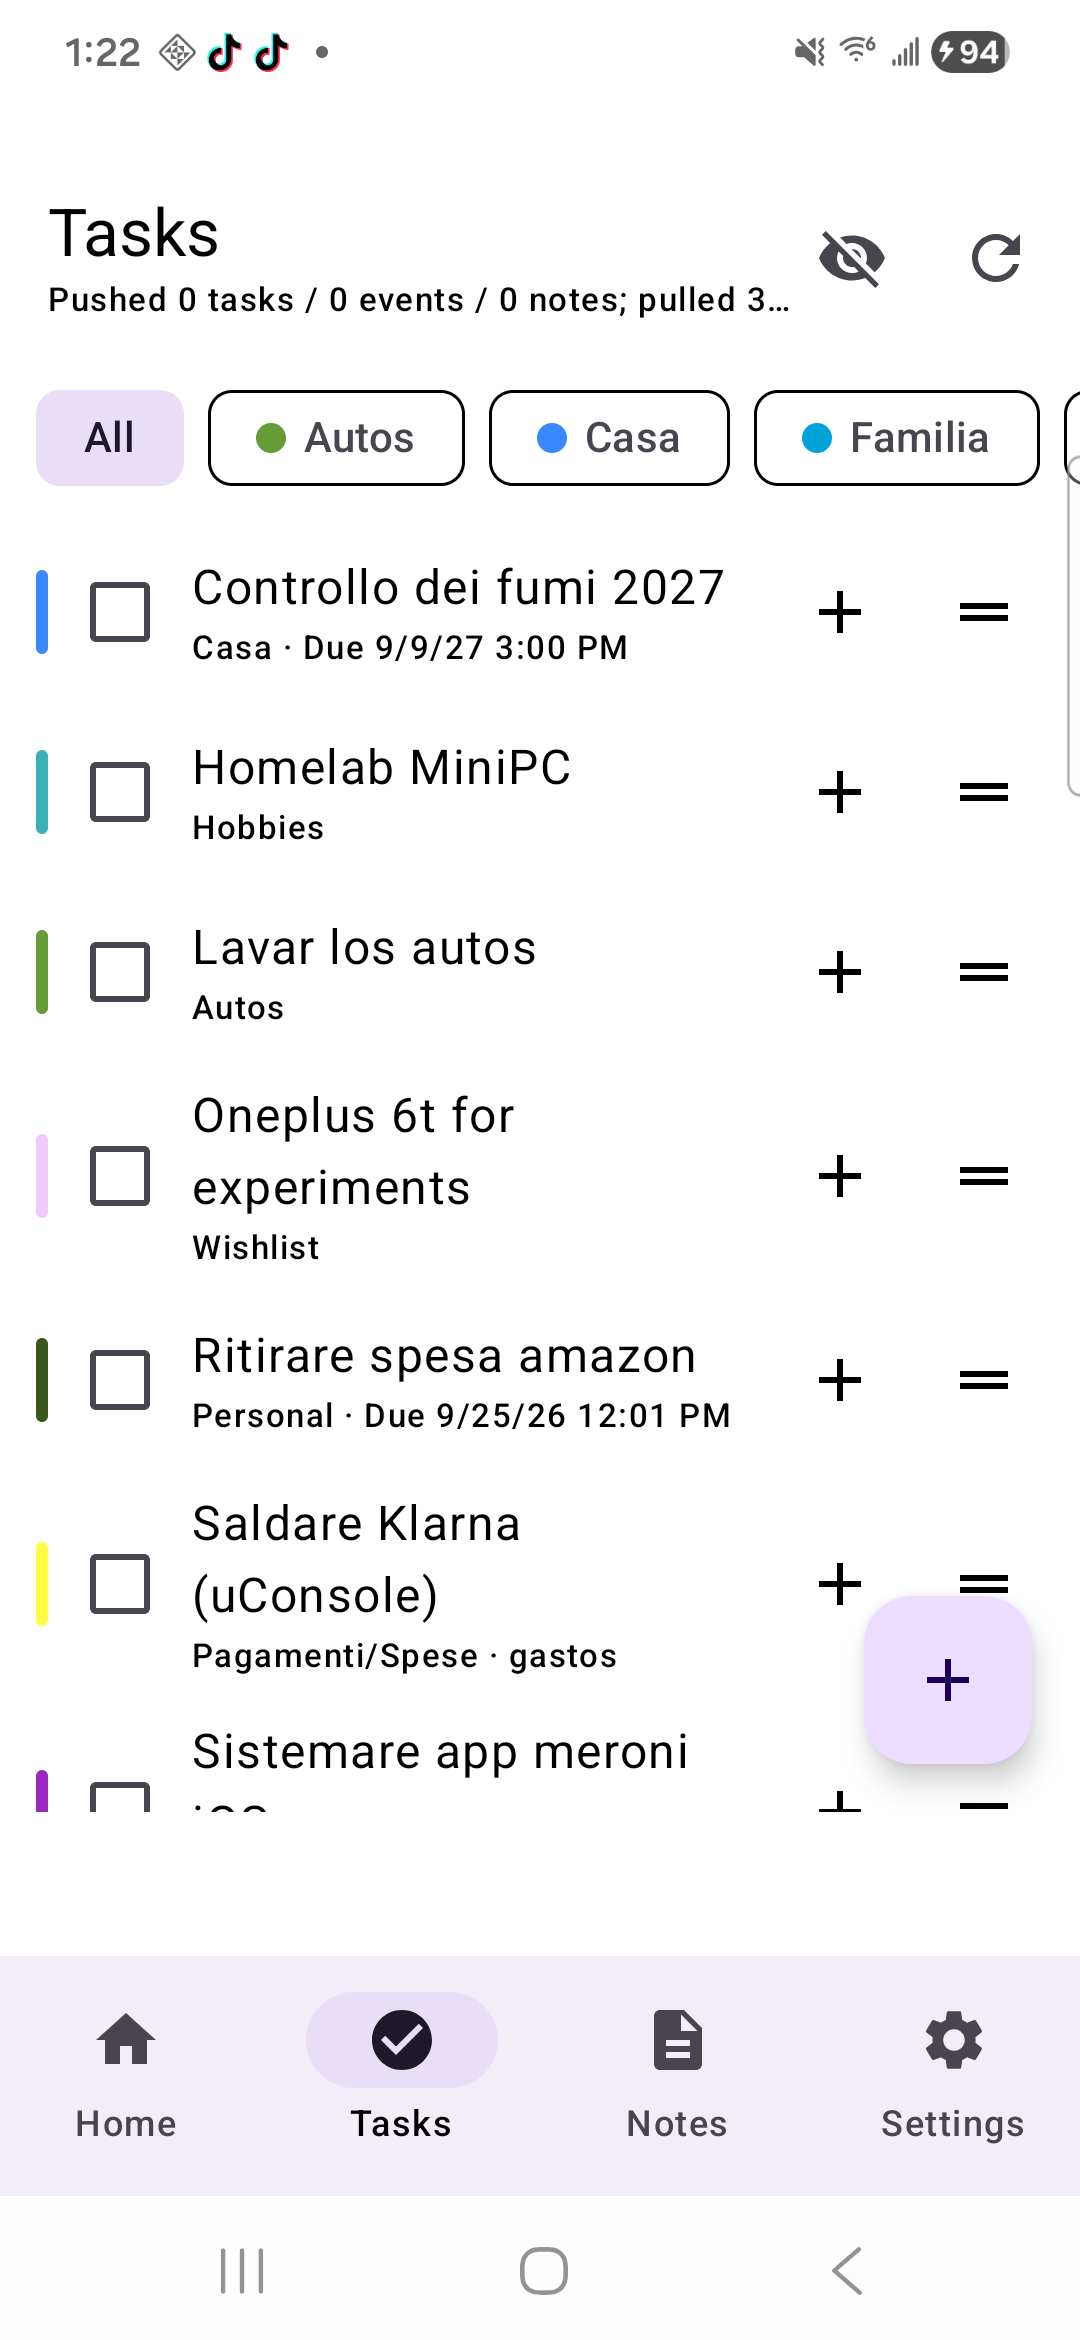
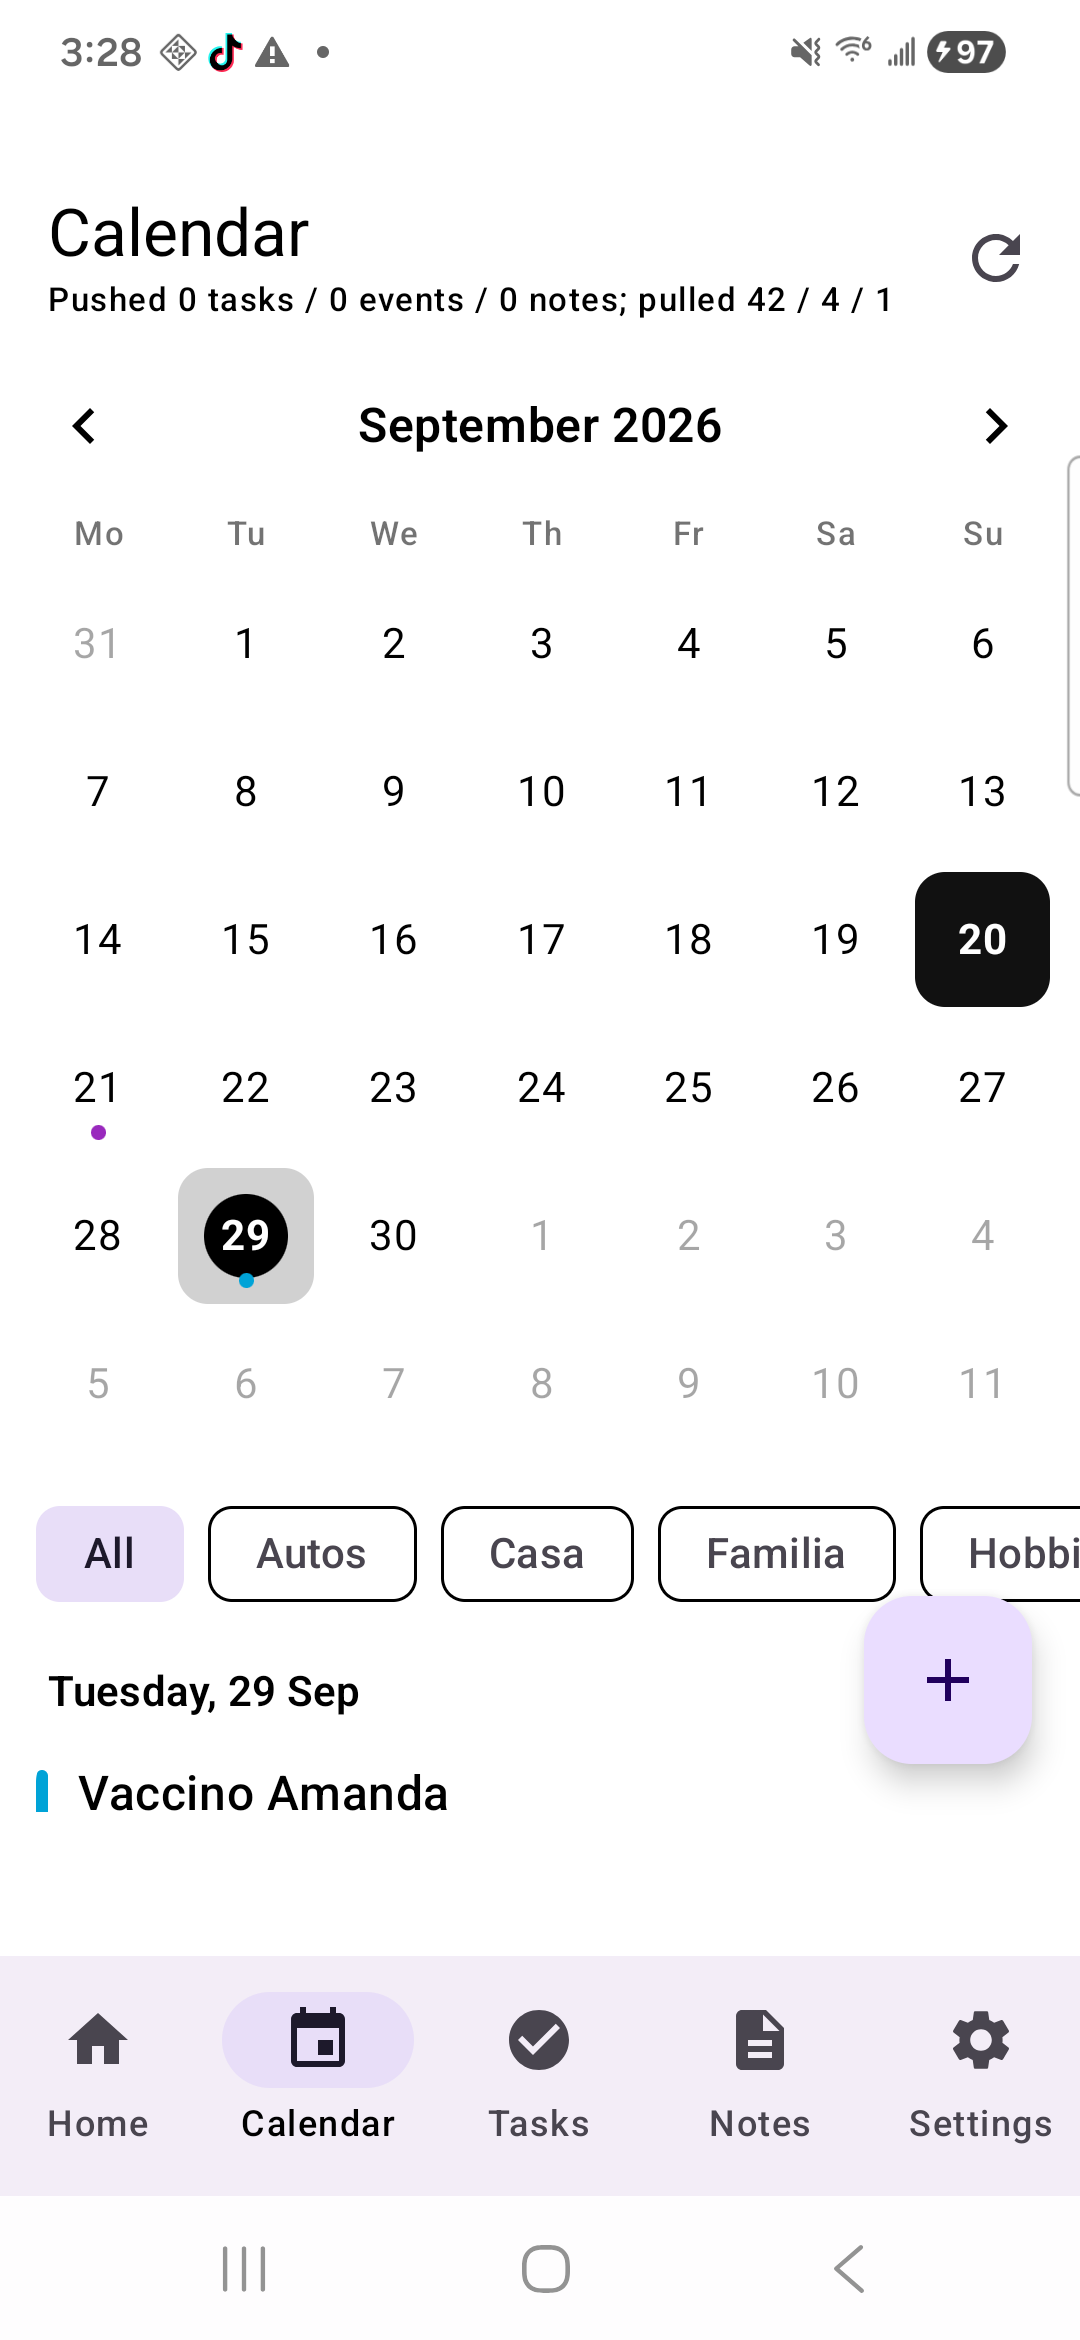
Fix calendar layout

diff --git a/app/src/main/java/app/taskdav/ui/calendar/CalendarScreen.kt b/app/src/main/java/app/taskdav/ui/calendar/CalendarScreen.kt
@@ -69,8 +69,7 @@ import app.taskdav.ui.theme.collectionColorOrDefault
 import java.util.Calendar
 import java.util.Locale
 
-private val TodayDotRed = Color(0xFFE53935)
-private val EventDot = Color(0xFF1B6CA8)
+private val TodayCellBlack = Color(0xFF111111)
 
 @OptIn(ExperimentalMaterial3Api::class)
 @Composable
@@ -364,33 +363,32 @@ private fun MonthDayCellView(
     modifier: Modifier = Modifier,
 ) {
     val muted = !cell.inCurrentMonth
-    Column(
+    Box(
         modifier = modifier
             .aspectRatio(1f)
             .padding(2.dp)
             .clip(RoundedCornerShape(10.dp))
             .then(
-                if (selected) {
-                    Modifier.background(MaterialTheme.colorScheme.primary.copy(alpha = 0.18f))
-                } else {
-                    Modifier
+                when {
+                    isToday -> Modifier.background(TodayCellBlack)
+                    selected -> Modifier.background(MaterialTheme.colorScheme.primary.copy(alpha = 0.18f))
+                    else -> Modifier
                 },
             )
-            .clickable(onClick = onClick)
-            .padding(vertical = 4.dp),
-        horizontalAlignment = Alignment.CenterHorizontally,
-        verticalArrangement = Arrangement.SpaceBetween,
+            .clickable(onClick = onClick),
     ) {
+        // Day number is always dead-center in the cell (same for every day).
         Box(
             modifier = Modifier
+                .align(Alignment.Center)
                 .size(28.dp)
                 .then(
-                    if (selected) {
-                        Modifier
+                    when {
+                        isToday -> Modifier
+                        selected -> Modifier
                             .clip(CircleShape)
                             .background(MaterialTheme.colorScheme.primary)
-                    } else {
-                        Modifier
+                        else -> Modifier
                     },
                 ),
             contentAlignment = Alignment.Center,
@@ -399,35 +397,37 @@ private fun MonthDayCellView(
                 cell.dayOfMonth.toString(),
                 style = MaterialTheme.typography.bodyMedium,
                 fontWeight = if (isToday || selected) FontWeight.Bold else FontWeight.Normal,
+                textAlign = TextAlign.Center,
                 color = when {
+                    isToday -> Color.White
                     selected -> MaterialTheme.colorScheme.onPrimary
                     muted -> MaterialTheme.colorScheme.onSurface.copy(alpha = 0.35f)
                     else -> MaterialTheme.colorScheme.onSurface
                 },
             )
         }
-        Row(
-            horizontalArrangement = Arrangement.spacedBy(3.dp),
-            verticalAlignment = Alignment.CenterVertically,
-            modifier = Modifier.height(10.dp),
+        // Fixed bottom lane so dots are centered under the number without shifting it.
+        Box(
+            modifier = Modifier
+                .align(Alignment.BottomCenter)
+                .fillMaxWidth()
+                .height(10.dp)
+                .padding(bottom = 2.dp),
+            contentAlignment = Alignment.Center,
         ) {
-            if (isToday) {
-                Box(
-                    modifier = Modifier
-                        .size(6.dp)
-                        .clip(CircleShape)
-                        .background(TodayDotRed),
-                )
-            }
-            if (cell.eventCount > 0) {
-                val dots = cell.eventCount.coerceAtMost(3)
-                repeat(dots) {
+            Row(horizontalArrangement = Arrangement.spacedBy(3.dp)) {
+                cell.eventColorsArgb.forEach { argb ->
+                    val color = collectionColorOrDefault(argb)
                     Box(
                         modifier = Modifier
                             .size(5.dp)
                             .clip(CircleShape)
                             .background(
-                                if (muted) EventDot.copy(alpha = 0.35f) else EventDot,
+                                when {
+                                    isToday -> color
+                                    muted -> color.copy(alpha = 0.35f)
+                                    else -> color
+                                },
                             ),
                     )
                 }

diff --git a/app/src/main/java/app/taskdav/ui/calendar/CalendarViewModel.kt b/app/src/main/java/app/taskdav/ui/calendar/CalendarViewModel.kt
@@ -46,7 +46,8 @@ data class MonthDayCell(
     val dayStartMillis: Long,
     val dayOfMonth: Int,
     val inCurrentMonth: Boolean,
-    val eventCount: Int,
+    /** Calendar colors for events on this day (ARGB), capped for the grid dots. */
+    val eventColorsArgb: List<Int>,
 )
 
 class CalendarViewModel(
@@ -68,8 +69,12 @@ class CalendarViewModel(
         events.filter { state.collectionFilter == null || it.collectionId == state.collectionFilter }
     }.stateIn(viewModelScope, SharingStarted.WhileSubscribed(5_000), emptyList())
 
-    val monthCells: StateFlow<List<MonthDayCell>> = combine(filteredEvents, _ui) { events, state ->
-        buildMonthCells(state.visibleMonthStartMillis, events)
+    val monthCells: StateFlow<List<MonthDayCell>> = combine(
+        filteredEvents,
+        collections,
+        _ui,
+    ) { events, collections, state ->
+        buildMonthCells(state.visibleMonthStartMillis, events, collections)
     }.stateIn(viewModelScope, SharingStarted.WhileSubscribed(5_000), emptyList())
 
     val dayItems: StateFlow<List<CalendarDayItem>> = combine(
@@ -324,7 +329,11 @@ class CalendarViewModel(
             return start < dayEnd && end > dayStart
         }
 
-        fun buildMonthCells(selectedDayMillis: Long, events: List<EventEntity>): List<MonthDayCell> {
+        fun buildMonthCells(
+            selectedDayMillis: Long,
+            events: List<EventEntity>,
+            collections: List<CollectionEntity>,
+        ): List<MonthDayCell> {
             val cal = Calendar.getInstance().apply {
                 timeInMillis = selectedDayMillis
                 set(Calendar.DAY_OF_MONTH, 1)
@@ -340,7 +349,8 @@ class CalendarViewModel(
             val offset = (firstDow - Calendar.MONDAY + 7) % 7
             cal.add(Calendar.DAY_OF_MONTH, -offset)
 
-            val counts = HashMap<Long, Int>()
+            val colorByCollection = collections.associate { it.id to (it.colorArgb ?: DEFAULT_CALENDAR_COLOR) }
+            val colorsByDay = HashMap<Long, MutableList<Int>>()
             for (event in events) {
                 val start = event.dtStartMillis ?: continue
                 val endExclusive = when {
@@ -348,10 +358,14 @@ class CalendarViewModel(
                     event.allDay -> start + DAY_MS
                     else -> start + DEFAULT_DURATION_MS
                 }
+                val color = colorByCollection[event.collectionId] ?: DEFAULT_CALENDAR_COLOR
                 var day = startOfDay(start)
                 val last = startOfDay(endExclusive - 1)
                 while (day <= last) {
-                    counts[day] = (counts[day] ?: 0) + 1
+                    val list = colorsByDay.getOrPut(day) { mutableListOf() }
+                    if (list.size < MAX_EVENT_DOTS) {
+                        list += color
+                    }
                     day += DAY_MS
                 }
             }
@@ -364,11 +378,14 @@ class CalendarViewModel(
                     dayStartMillis = dayStart,
                     dayOfMonth = cal.get(Calendar.DAY_OF_MONTH),
                     inCurrentMonth = inMonth,
-                    eventCount = counts[dayStart] ?: 0,
+                    eventColorsArgb = colorsByDay[dayStart].orEmpty(),
                 )
                 cal.add(Calendar.DAY_OF_MONTH, 1)
                 cell
             }
         }
+
+        private const val MAX_EVENT_DOTS = 3
+        private const val DEFAULT_CALENDAR_COLOR = 0xFF2B6A4F.toInt()
     }
 }
